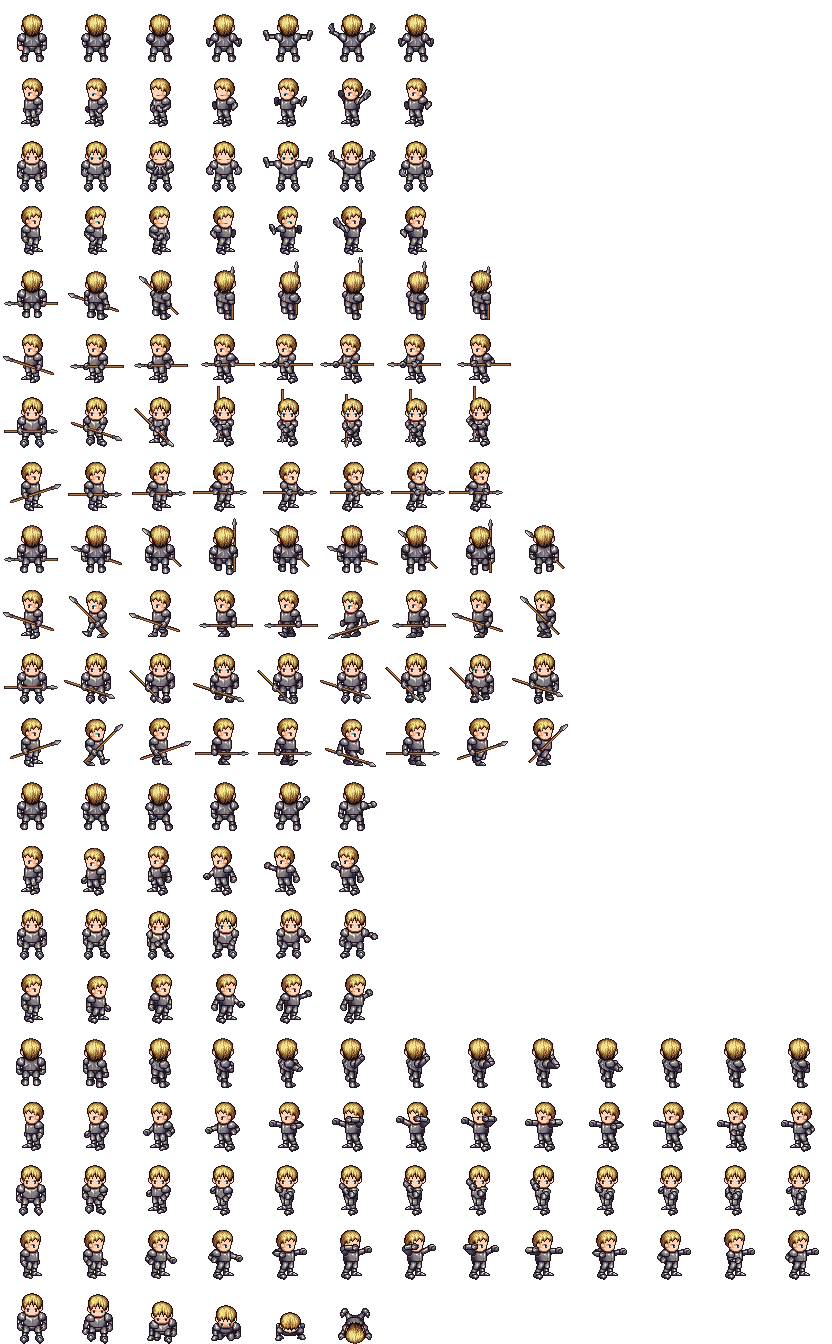
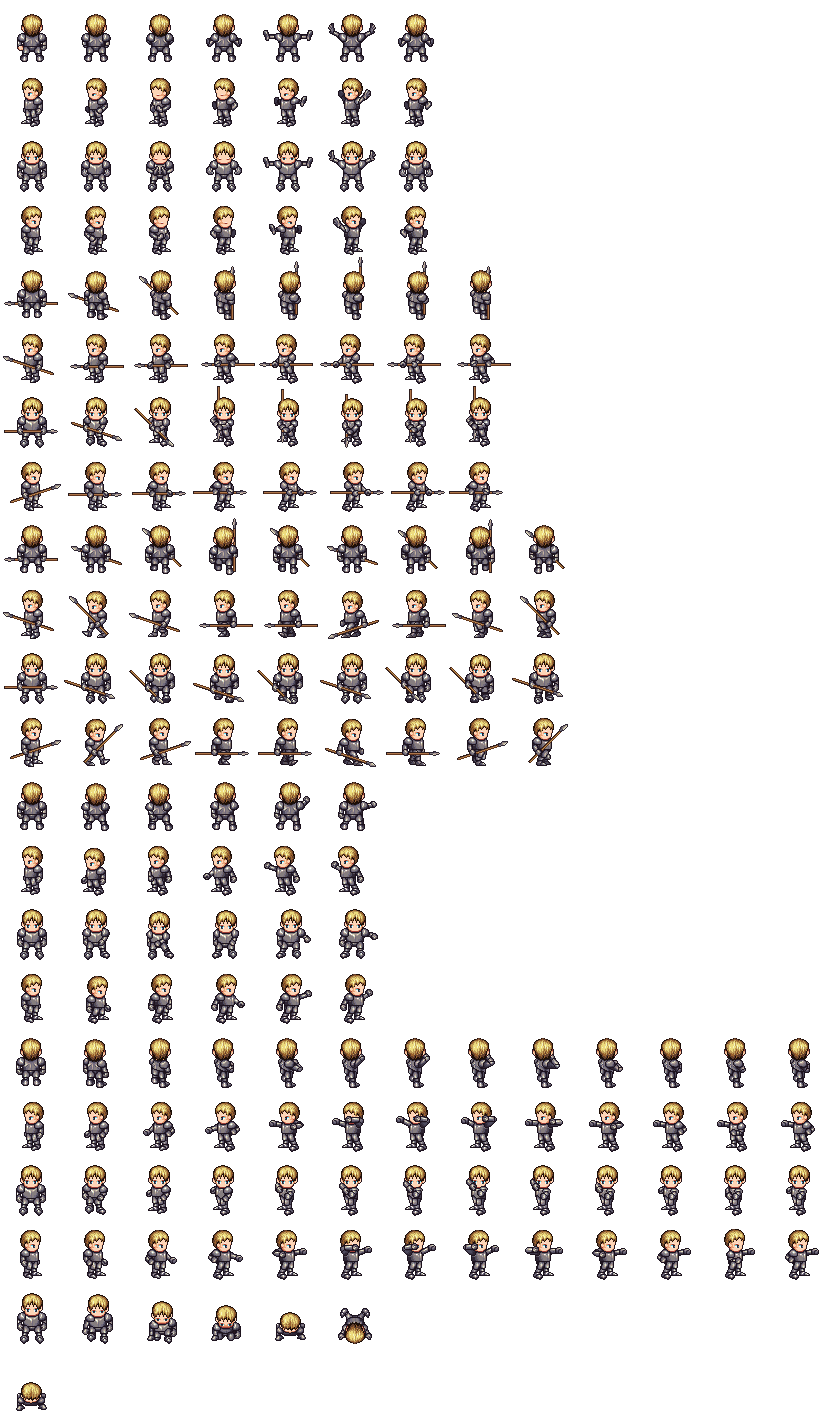
Death animation on warrior

diff --git a/GameEngine.js b/GameEngine.js
@@ -976,7 +976,8 @@ Warrior = function (game, stats) {
         right: new Animation(this.spriteSheet, 0, 11, 64, 64, 0.05, 9, true, false),
         destroy : new Animation(this.spriteSheet, 0, 17, 64, 64, 0.05, 12, true, false),
         hit: new Animation(this.spriteSheet, 0, 20, 64, 64, 0.05, 7, true, false),
-        special : new Animation(this.spriteSheet, 0, 17, 64, 64, 0.05, 12, true, false)
+        special: new Animation(this.spriteSheet, 0, 17, 64, 64, 0.05, 12, true, false),
+        death: new Animation(this.spriteSheet, 21, 64, 64, 0.5, 1, true, false)
     };
     this.x = 10;
     this.y = 215;
